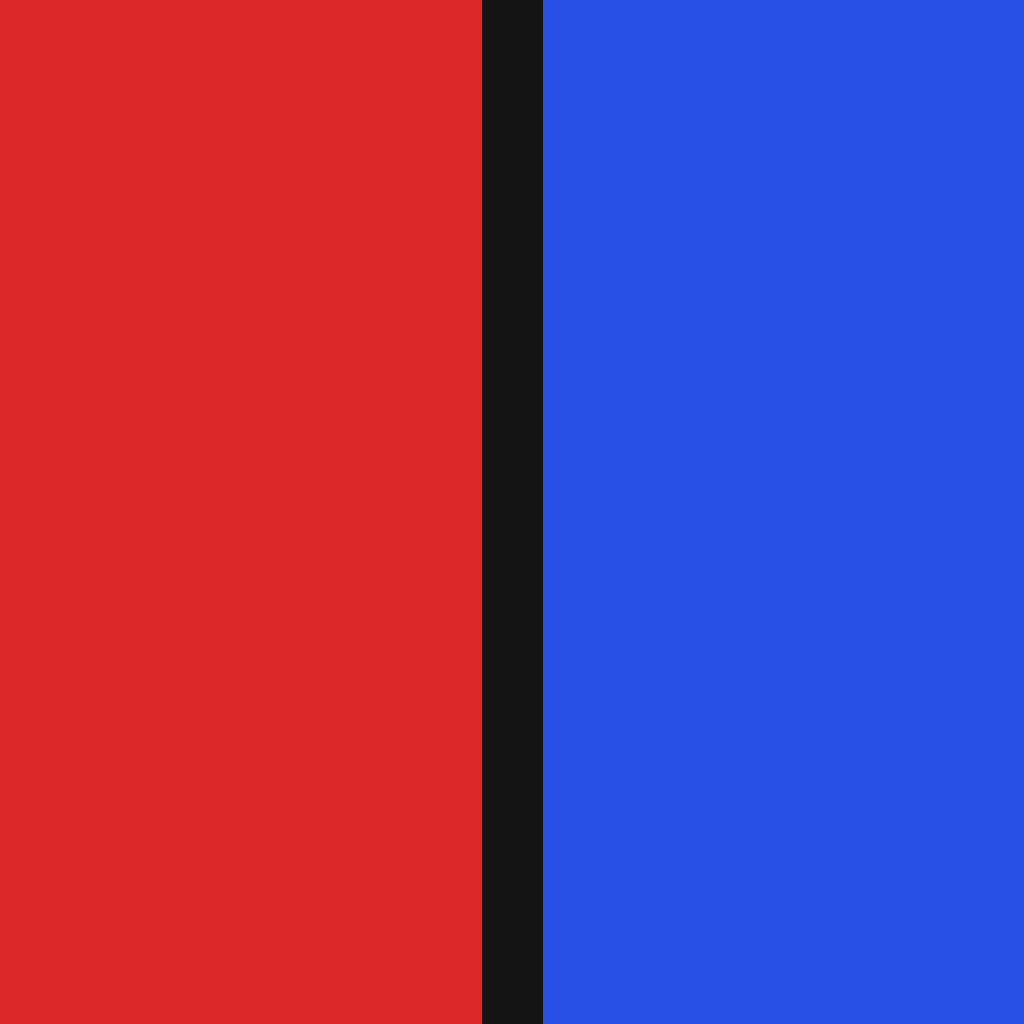
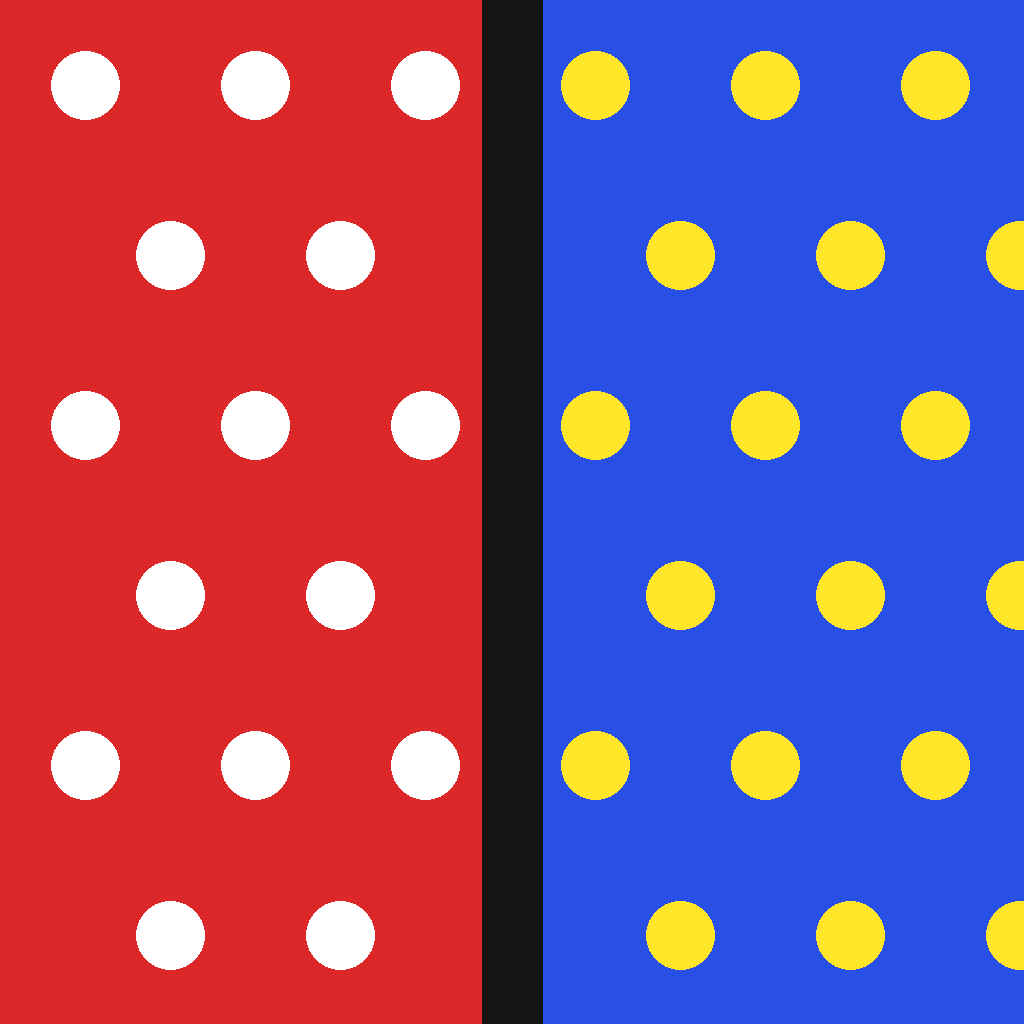
Ball shadows: cleanup, rewrite PLAN as followups, polka-dot test map
- Remove now-unused assets (glassball.vmat, galaxyball_color.png); the ball uses
  glassball_poke.vmat + pokeball_color.png.
- Rewrite PLAN.md around remaining work: active #1 (run the effect on the lane-
  monitor cameras) and #2 (auto-couple shadow colour to the ball, kill the
  two-place setup); #3-6 as stretch goals; keep the shipped-state summary + lessons.
- pokeball_color.png: add polka dots (white on red, yellow on blue) to test how
  fine spatial detail projects into the shadow.

diff --git a/PLAN.md b/PLAN.md
@@ -1,166 +1,85 @@
-# PLAN: recolour ball shadows from the balls' own colours (screen-space, per-light, agnostic)
+# PLAN: ball shadows — remaining work
 
-**Goal.** Balls are translucent coloured galaxy marbles. Their shadows should read **the ball's colour**
-— as if each light were filtered through that ball's glass — instead of grey. The effect must be:
+The ball-shadow effect is **shipped and working** (branch merged to master). This file now tracks the
+**followups** that remain, not the original build.
 
-- **light-count agnostic** — works for 1 directional sun today, or N point/spot/colored lights later;
-- **colour agnostic & live** — the tint is **not** a hardcoded property. It is derived, **in realtime**,
-  from **whatever gives the ball its current colour** (see "Where the tint comes from"). Green today
-  because the material is green; change the material and the shadow follows;
-- **ball-count agnostic** — N balls, each contributing its own tint;
-- **physically mixed** — where colours overlap, they combine as a **subtractive filter** (each occluding
-  ball multiplicatively tints the light passing through it; unblocked lights keep lighting normally);
-- **scoped to balls** — pins / Terry / lane structure keep normal grey shadows;
-- **detail-preserving** — the real shadow's soft penumbra, the Terry silhouette, and the graded grey
-  levels the glass shader casts all ride through.
+## What's already done (shipped)
 
-## The core insight (unchanged from the prior working idea)
+A screen-space post-process (`Code/BallShadowTintPP.cs` + `Assets/shaders/ballshadow_tint.shader`,
+`Stage.AfterOpaque`) that **projects each ball's surface colour into its real shadow**:
 
-Every earlier failed approach **reconstructed** a shadow (projected decal, analytic floor ellipse). A
-reconstruction can't contain detail it didn't generate. **We do not reconstruct — we recolour the real
-shadow that's already on screen.** We take:
+- Per shadowed pixel, reconstruct world pos from depth, read the real sun shadow term
+  (`DirectionalLightShadow::GetVisibility` — grading + penumbra ride through), and for each `ShadowBall`
+  (marker component) sample its **colour map** at the entry+exit surface points along the sun ray. A chord
+  through one colour tints that colour; a chord through two greys toward their mean.
+- Multiple balls stack **subtractively** (up to 4 slots); an opaque occupant (Terry, `HasOpaqueOccupant`)
+  reads deep grey via the occlusion cut.
+- **Extra coloured lights** (point lights, up to 2) each cast an **analytic** ball shadow tinted by
+  ball-colour × light-colour (`ApplyLight`). The sun keeps its real engine shadow; extra lights are
+  analytic only. A green `GreenApproachLight` (scene root, parked over the spawn point by `ApproachLight`)
+  demos this.
+- Tuning knobs on the component: Strength, Colorize, Saturation, ColorMip, TerryCut, OccupantDark,
+  CascadeResolution/Distance (`r.shadows.csm.*` for CSM sharpness). DebugMode enum isolates the pipeline
+  (kept intentionally — useful for the work below).
+- Current playing ball is a red/blue **pokeball** (`glassball_poke.vmat` + `pokeball_color.png`).
 
-- **shape/detail** from the engine's real shadow term (fractional → graded greys, penumbra, Terry ride
-  through), and
-- **"which ball, which light" attribution** from cheap analytic ray/sphere tests per light.
+Hard-won constraints: **shader source must stay ASCII and brace-balanced** or the vfx parser crashes on
+load. Colour maps must be resolved **in the post-process** (a runtime `Texture.Load` in `OnEnabled` returns
+null). See the memory notes.
 
-## Decisions locked in (2026-07-01)
+---
 
-1. **Per-light iteration (agnostic).** Do **not** hardcode the single directional sun. Iterate lights via
-   the engine's generic light path and read each light's own shadow term + colour, then attribute the
-   recolour per light. (See "Engine API" — this likely forces an `ISceneCustomPass` rather than a pure
-   post-process, because the light-binner cluster + shadow atlases must be bound.)
-2. **Spike first.** Ship the single-sun red-tint spike (below) to confirm the shadow/light bindings are
-   available in our pass, THEN generalize to N lights / N balls. No building on an unproven binding.
-3. **Physical subtractive mixing.** A point inside several balls' shadows gets its passing light
-   multiplicatively tinted by each occluding ball's colour (green·amber glass → murky); lights not
-   blocked at that point keep lighting it. This is the real coloured-shadow / coloured-glass behaviour.
-4. **Tint is live, sourced from the ball's colour** — not a `[Property] Color`. See next section.
+## Active plan
 
-## Where the tint comes from — sample the texel the light ray passed through
+### 1. Run the effect on the lane-monitor cameras
 
-The ball has **no single colour scalar**; its green is the `glassball.vmat` material — `TextureColor` =
-`galaxyball_color.png` (green nebula) lifted by `g_vColorTint` `[0.82,1.0,0.88]`. Rather than collapse
-that to one representative colour (an average), we tint **per ray**: a coloured-glass shadow *is* the
-light tinted by the exact glass it passed through, so the galaxy's swirls project into the shadow.
+Today only the scene's **main camera** has `BallShadowTintPP`. The 4 lane-monitor feed cameras are created
+in code (`Code/LaneMonitorCamera.cs`, `Components.Create<CameraComponent>()`) and have no post-process, so
+those feeds show plain grey shadows — an in-game inconsistency.
 
-Per shadowed pixel, per light: the shadow ray is `worldPos → light`. Ray/sphere-intersect it against the
-ball, take the **light-facing hit** (`t_far`, where the light enters the glass), transform that point into
-**ball-local** space (using the pushed ball transform), map it to a spherical UV, and sample the galaxy
-texture (× live `g_vColorTint`) there. That texel **is** the tint filter for that pixel — no average.
+- Attach a `BallShadowTintPP` to each monitor camera when it's created (it's a `BasePostProcess`, so it's
+  auto-collected per camera). Mirror the main camera's settings, or expose them once and share.
+- Verify: the coloured shadow shows in all 4 feeds, and per-camera re-gathering of balls/lights is cheap
+  enough (profile if the feeds stutter).
 
-Decisions:
-- **Sample space = ball-local** → the swirl **rotates with the rolling ball** (physically correct, lively).
-  One-line toggle to sample in world space (frozen swirl) if it reads too noisy at speed.
-- **Sample point = `t_far`** (light-facing surface). Can upgrade to a `t_near`/`t_far` blend for depth later.
-- **UV** is synthesized analytically (spherical), so it won't match the model's unwrap exactly — irrelevant
-  for an abstract swirl map; it reads as believable coloured swirl.
-- `g_vColorTint` is read **each frame**, so live material recolours track the same frame.
+### 2. Auto-couple the shadow colour to the ball (kill the two-place setup)
 
-## Engine API (grounded in ../sbox-public)
+The ball's colour currently lives in **two** places that can drift: the material (`glassball_poke.vmat`
+`TextureColor`) and `ShadowBall.ColorMapPath`. The goal is **one source**, texture/shader-agnostic.
 
-- `game/addons/base/Assets/shaders/common/classes/Light.hlsl`: generic light iteration —
-  `Light::Count(screenPos)`, `Light::From(worldPos, posSs, i, lightmapUV)`, and per-light
-  `Light::Shadows(worldPos, screenPos)` (dispatches to `DirectionalLightShadow` / `ProjectedShadow` /
-  `ProjectedShadowCube` by type), `Light::GetLightColor`, `GetLightDirection`, `GetLightPosition`,
-  `GetLightAttenuation`. Backed by the light-binner cluster (`common/lightbinner.hlsl`).
-- `game/core/shaders/Shadows/DirectionalLightShadow.hlsl` — `GetVisibility(worldPos, screenPos)` (sun).
-- `common/classes/Depth.hlsl` — `GetWorldPosition(screenPos)` (confirmed usable in a post pass).
+- Preferred (robust): make `ShadowBall.ColorMap`/`Path` the single source and drive the **ball's material
+  from it** at runtime (per-instance `TextureColor` override via the renderer's `SceneObject.Attributes`),
+  so setting the ball's colour map updates both the ball and its shadow. Verify the glass shader honours a
+  per-instance `TextureColor` override.
+- Full-agnostic (spike): read the ball's colour straight off its `ModelRenderer`'s material at runtime
+  (`Material.Attributes` `g_vColorTint` + averaging/keeping the colour texture) so *any* ball just works
+  with zero config. Uncertain API — prototype before committing.
 
-## The algorithm (per screen pixel)
+---
 
-```
-worldPos   = Depth::GetWorldPosition(screenPos)
-detail     = 1 - <real shadow term>          // aggregate (spike) or per-light Light::Shadows; FRACTIONAL,
-                                             // carries graded greys + Terry silhouette + penumbra
-// accumulate a subtractive tint over lights and balls:
-tintFilter = float3(1,1,1)                   // multiplicative filter applied to shadowed colour
-for each light L (Light::Count / Light::From):
-    toL     = direction/position of L (GetLightDirection/GetLightPosition)
-    for each ball B (pushed centre/radius/orientation):
-        occ = softRaySphere(worldPos, toL, B.center, B.radius)   // 0..1 does B block L here?
-        hit = rayFarHit(worldPos, toL, B)                        // light-facing surface point (t_far)
-        uv  = sphereUV( toBallLocal(hit, B) )                    // ball-local → spherical UV
-        tex = SampleGalaxy(uv).rgb * g_vColorTint                // the exact texel the light passed through
-        tintFilter = lerp(tintFilter, tintFilter * tex, occ)     // subtractive stack, colour-agnostic
-color = lerp(color, color * tintFilter, detail)                  // recolour only the real shadow
-```
+## Stretch goals
 
-The analytic ray/sphere tests decide **which light/ball owns the recolour** (attribution + mask);
-`detail` (the real fractional shadow) decides **how strong** the recolour is at that pixel, so Terry and
-the penumbra ride through. For the spike we collapse this to: one light, one ball, `tint = red`, no
-material read — just prove `detail`/`GetVisibility` is readable in the pass.
+3. **Extra-light shadow correctness.** The extra (coloured) light shadow is analytic-only: no penumbra, no
+   Terry silhouette, and it doesn't respect other occluders/surfaces — it's a flat projected ellipse, so on
+   the gutter/walls/pins it can bleed where the real light wouldn't reach. Fine on the flat approach; needs
+   depth/occluder awareness (or its own shadow map) to be correct elsewhere.
+4. **Green light behaviour.** It's pinned to the spawn point, so its shadow detaches once the ball rolls
+   away — fine as a start-of-frame beauty element. Decide if it should track the ball, fade out on release,
+   or stay purely decorative.
+5. **Rolling swirl.** The colour map is sampled in ball-local space, so the shadow's colours rotate with
+   the roll (correct, but can look busy at speed). Option to damp/freeze the rotation past some speed.
+6. **Split alignment / catseye.** The analytic spherical UV doesn't match the model's real UV, so the
+   shadow's colour seam won't perfectly line up with the ball's visible seam, and the pole smears into a
+   "catseye" at the shadow centre (liked, kept). Match the model UV if exact registration is ever needed.
 
-## What we KEEP from the glass shadow
+---
 
-The glass ball casts its **own graded shadow** via `glass.shader`'s depth pass (Fresnel opacity +
-`OpaqueFadeDepth` dithers it into the sun shadow map — dense rim, thin centre, solid Terry). That grading
-is the detail we preserve. If the recoloured shadow reads too faint, strengthen opacity /
-`OpaqueFadeDepth` in the `S_MODE_DEPTH` block — **never** swap in a flat opaque `ShadowsOnly` proxy
-(uniform binary shadow flattens the grading).
+## Explicitly ruled out (don't re-tread)
 
-## Data flow
-
-`BallController` (only the local lane's ball, as before) pushes each frame via
-`Scene.RenderAttributes` — now **arrays** for N balls (fixed small cap, e.g. 8; simpler than a
-StructuredBuffer and plenty):
-
-- `BallShadowCenters[]` (float3), `BallShadowRadii[]` (float), `BallShadowRots[]` (float4 quat, for
-  ball-local sampling), `BallShadowCount` (int; 0 → shader bails, frame untouched), plus a scalar
-  `BallShadowStrength`.
-- The **galaxy colour texture** (`Texture2D`) + live `g_vColorTint` (float4), bound once/per-frame. One
-  shared texture today; per-ball texture arrays only if balls ever diverge.
-
-Light data (positions/dirs/colours/shadows) is read **inside the shader** from the engine's light binner —
-not pushed from C#.
-
-## Pieces to build
-
-- **`BallController`**: push per-ball centre / radius / orientation arrays + bind the galaxy texture and
-  live `g_vColorTint` each frame. No average, no authored tint. Resolve nothing about lights (shader-side).
-- **Pass component** (`BallShadowTintPP`): start as a post-process; if the spike shows light-binner /
-  shadow atlases aren't bound in post, switch to an `ISceneCustomPass` that runs **right after opaque**
-  (bindings guaranteed there). Must be on the **4 lane-monitor cameras** + the main view.
-- **`Assets/shaders/ballshadow_tint.shader`**: fullscreen shader. Template `postprocess_bloom.shader`
-  (fullscreen VS + `postprocess/common.hlsl`), `Depth.hlsl` for world reconstruction, and `Shadow.hlsl` /
-  `Light.hlsl` for the shadow term + light iteration.
-
-## Risks / unknowns (verify in this order)
-
-1. **Are the shadow term + light binner readable in the pass?** World reconstruction in post is confirmed;
-   the **shadow atlases + light-binner cluster being bound during our pass is the open question** — and
-   per-light iteration needs *both*. → the spike de-risks exactly this. If not bound in a post-process,
-   fall back to `ISceneCustomPass` after opaque.
-2. **Reconstructing per-light contribution in screen space.** We only have the composited colour, not each
-   light's contribution. The algorithm sidesteps this by using analytic per-light ball occlusion for
-   *attribution* and the real fractional shadow only for *strength*; validate this reads right with 2
-   coloured lights (the end goal) once bindings work.
-3. **Dither shimmer** at sparse-dither edges — controllable via shadow filtering / glass opacity.
-4. **Multi-camera** ordering / pass present on every feed.
-5. **Shaders compile only in-editor** — first pass may need syntax fixes (watch for magenta/no-op).
-
-## De-risk spike (do this FIRST)
-
-Post-process that tints **any** shadowed pixel **red** (`color *= red` where `1 - <shadow term> > 0`),
-no ball mask, no per-light loop, no material read. If red lands on the shadow in-editor, the binding
-works and the rest (per-light loop + analytic masks + live material tint + array plumbing) is
-incremental. If not, switch to the `ISceneCustomPass` fallback and re-test before anything else.
-
-## Explicitly ruled out (see info.md — don't re-tread)
-
-- **Projected decals** (this branch): reconstructs the shadow → no real detail; fighting projection across
-  gutter/lane/wall/trough surfaces is a losing battle.
-- **Analytic floor `shadow_receiver.shader`** (old `green-ball-shadow`, "massive failure"): analytic
-  ellipse only, needed per-surface material assignment.
-- **Opaque `ShadowsOnly` proxy sphere**: flat binary shadow, destroys the Fresnel grading.
-- **Per-light spot-cookie rig**: overkill.
-- **Native coloured/deep shadow maps / directional cookies**: impossible — Source 2's shadow-map
-  rasteriser is native/closed; only the *sampling* HLSL is editable (which is what this plan uses).
-
-## Done when
-
-Every ball's shadow reads **its own live colour** on every surface it falls across (driven by the ball's
-material, updating in realtime), with the real shadow's grading / penumbra / Terry silhouette preserved;
-overlapping coloured shadows mix as a subtractive filter; the effect is **light-count and ball-count
-agnostic** (verified with 2 coloured lights on 2 coloured balls); pins/Terry keep grey shadows; it's a
-single screen-space pass (no decal, no proxy, no per-surface material, no spot rig); frame time unaffected.
+- **Projected decals** — reconstruct the shadow, no real detail; fighting the projection across gutter
+  surfaces was a losing battle.
+- **Analytic floor `shadow_receiver.shader`** — analytic ellipse only, needed per-surface materials
+  ("massive failure").
+- **Opaque `ShadowsOnly` proxy sphere** — flattens the glass's graded shadow.
+- **Native coloured/deep shadow maps or directional cookies** — Source 2's shadow rasteriser is closed;
+  only the sampling HLSL is editable, which is what this uses.
